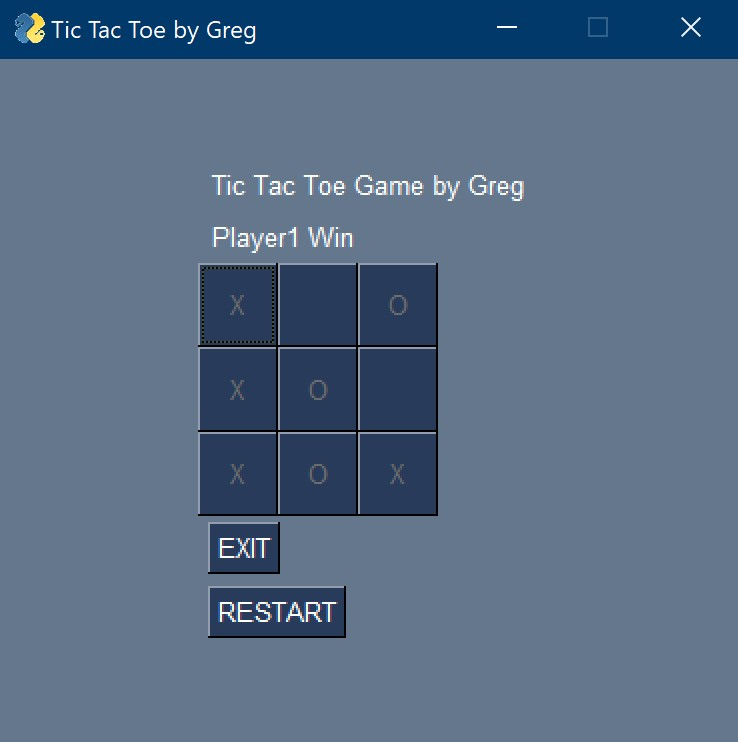
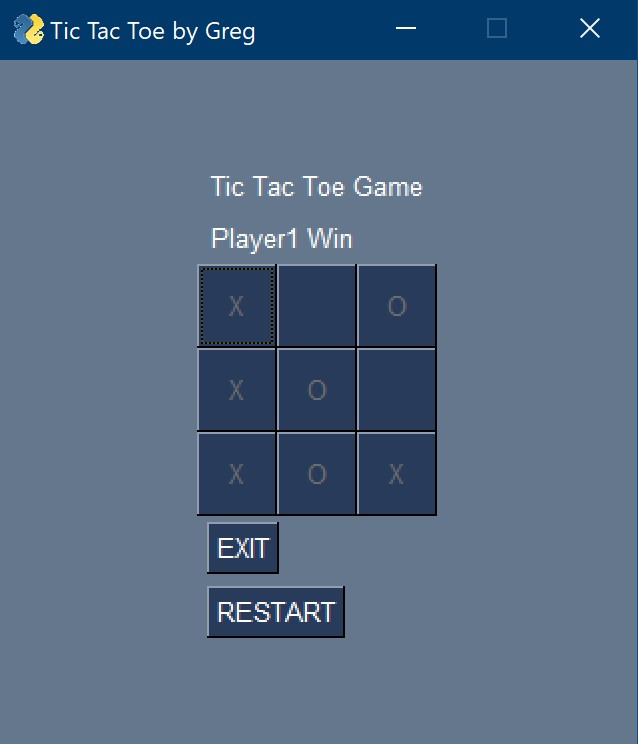
improved readme file

diff --git a/main.py b/main.py
@@ -17,7 +17,7 @@ p1_win = 'Player1 Win'
 p2_win = 'Player2 Win'
 
 layout = [
-    [sg.Text("Tic Tac Toe Game by Greg")], 
+    [sg.Text("Tic Tac Toe Game")], 
     [sg.Text(f'{current_text}', key='player')],
     [sg.Button(' ', size=(4, 2), key=(a), pad=(0, 0))
      for a in range(1,4)],
